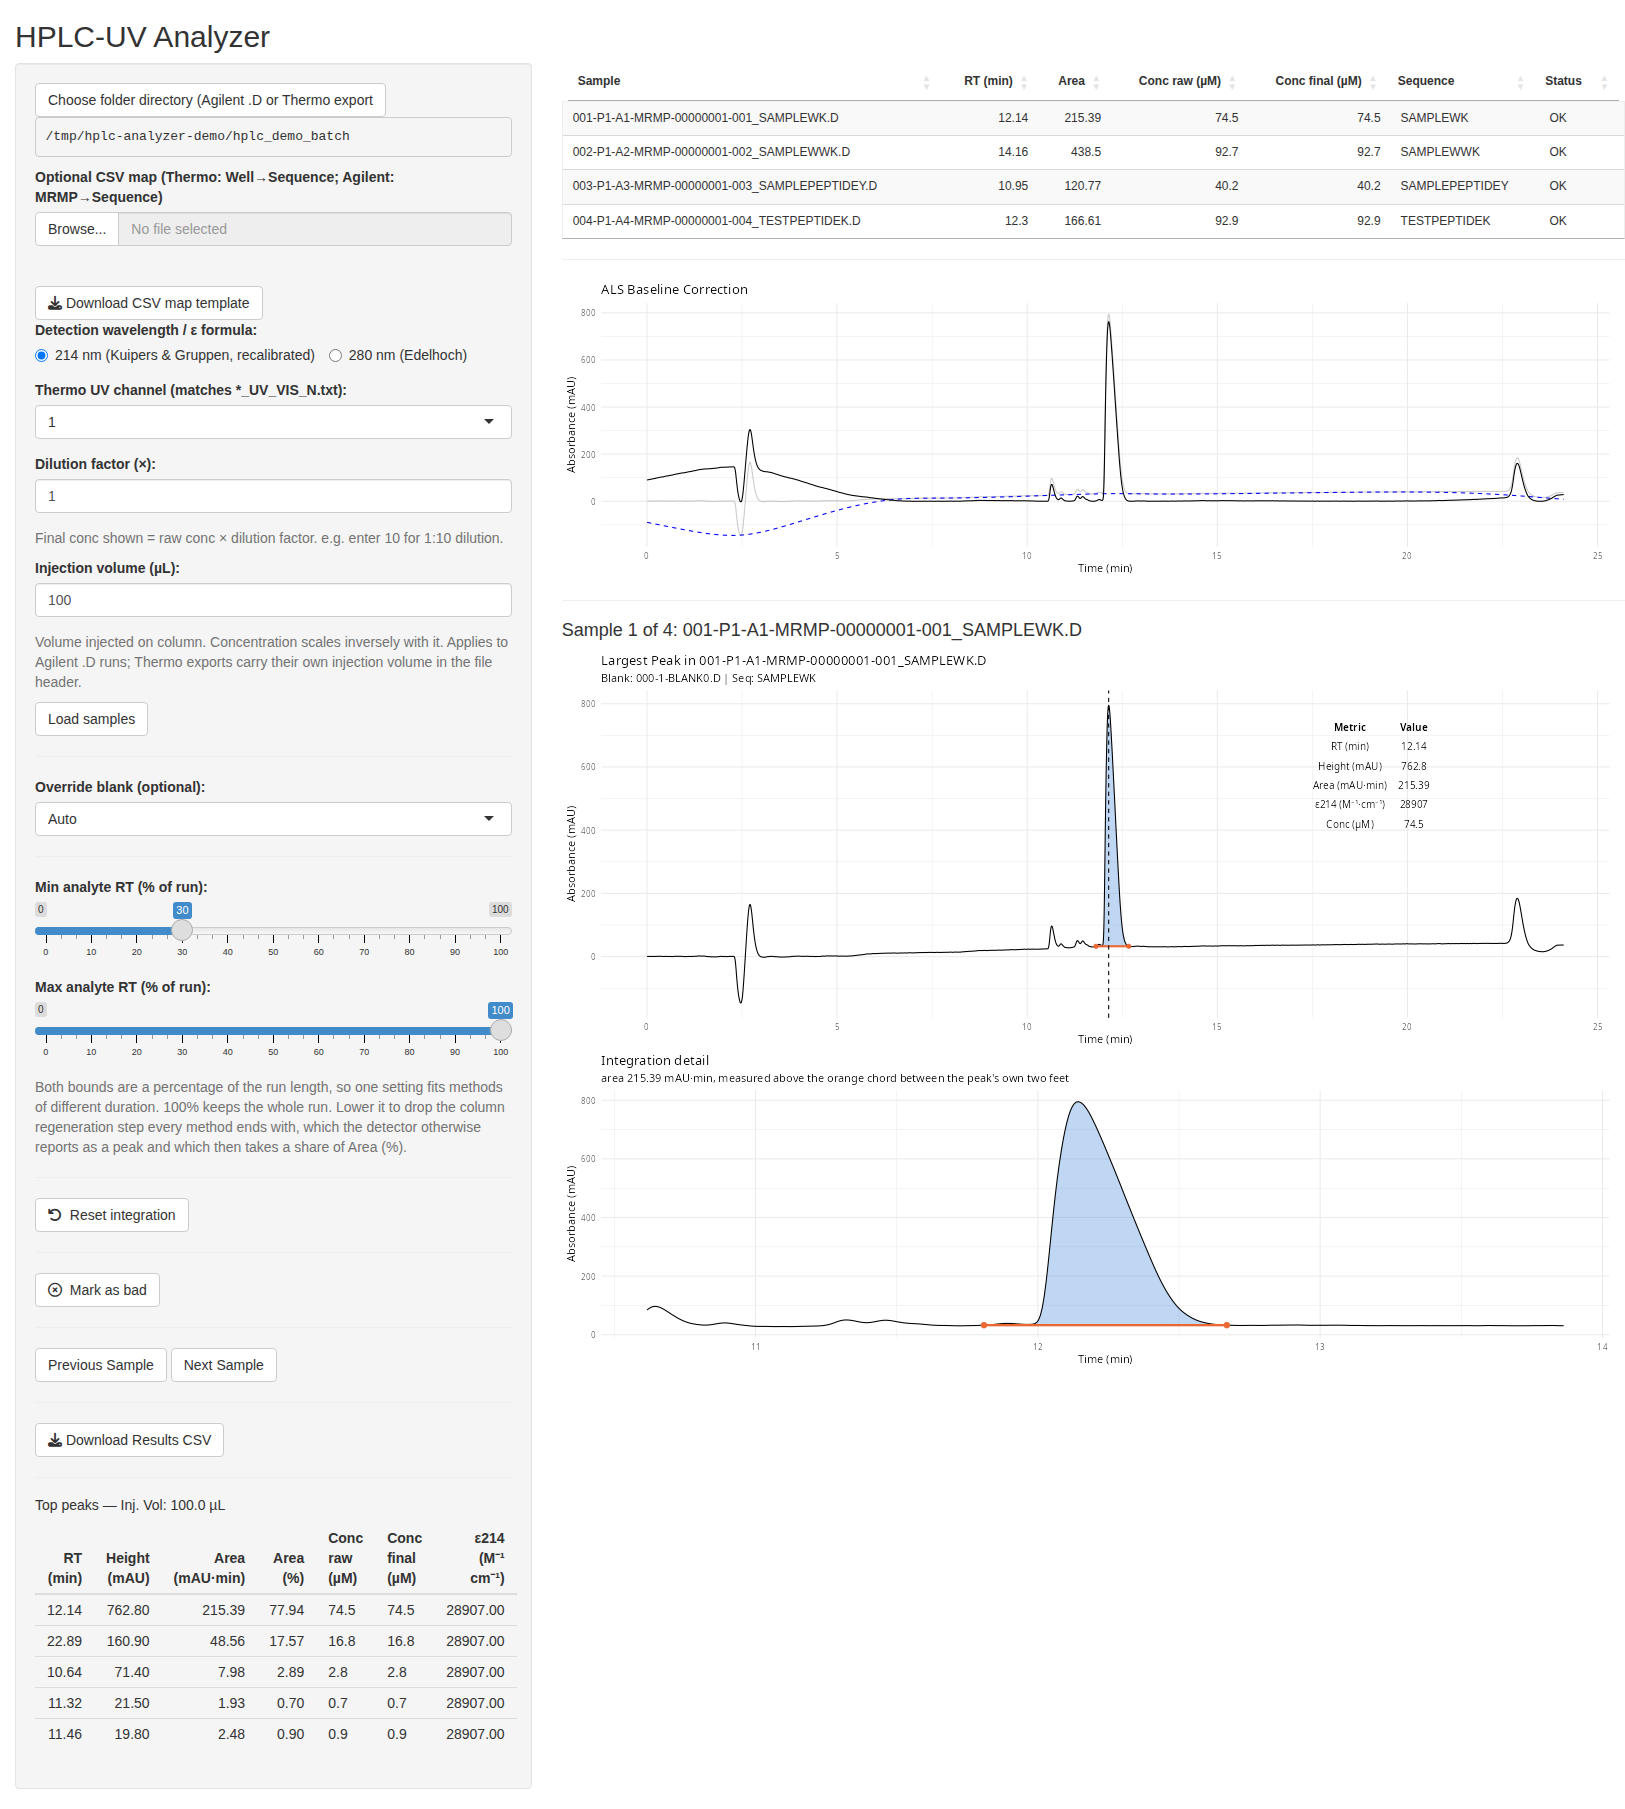
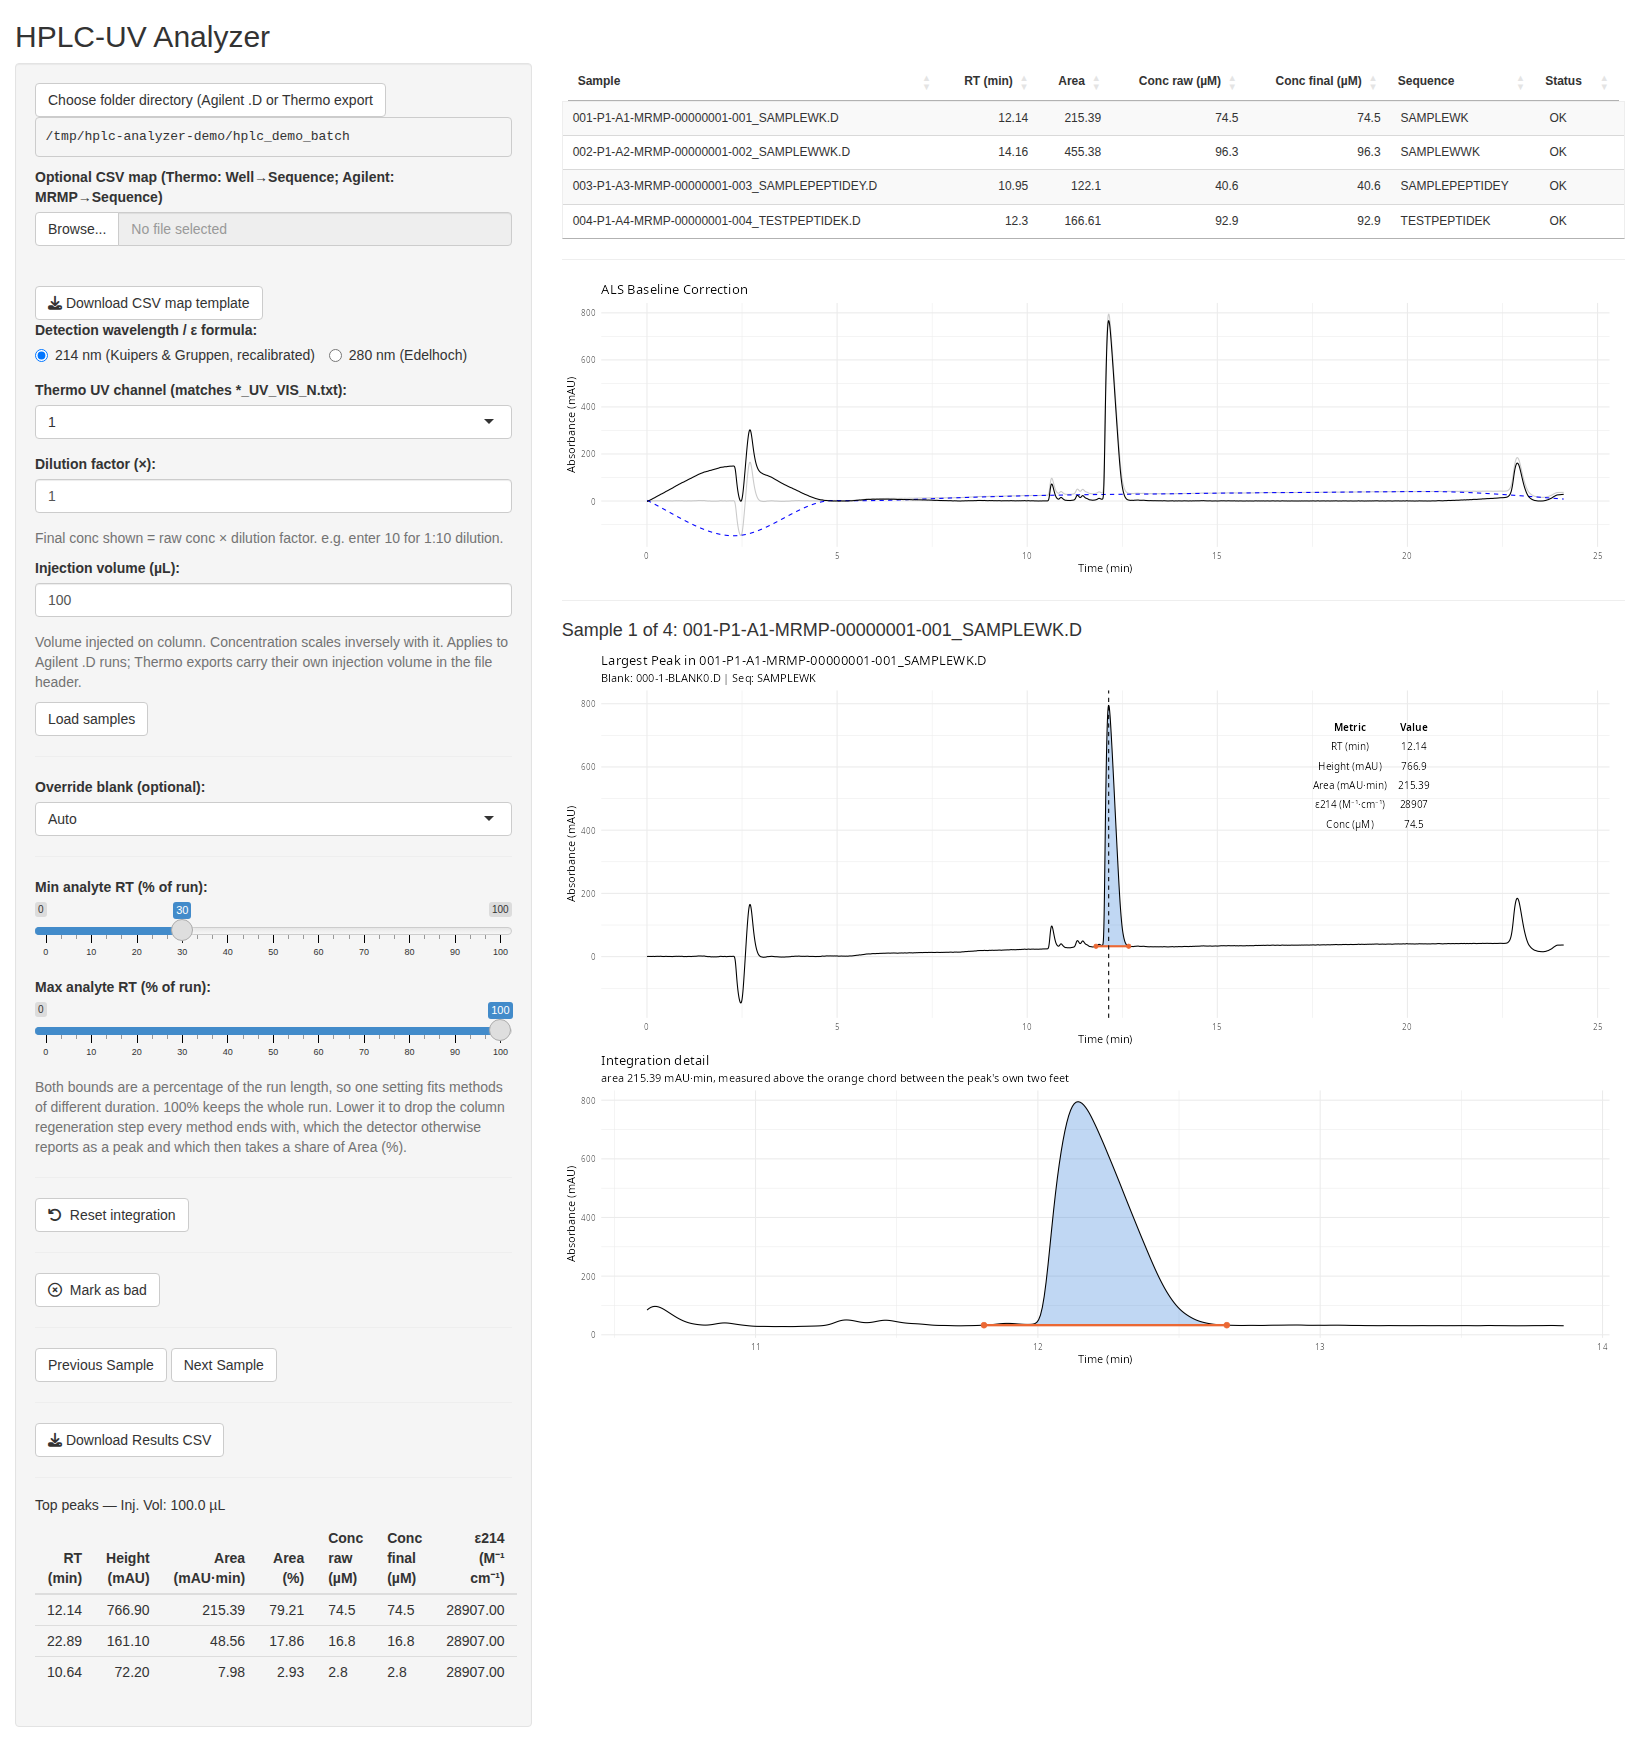
v0.7.6: ALS lambda 4.5 and p 10^-6.5, chosen at the instrument
Peter drove the two sliders against three test runs rather than accepting a value fitted to a
summary statistic, and the pair he landed on is better than the previous 5.5 with p 1e-4 on every
measure at no cost. Over 47 runs: the baseline's climb into the main peak falls from 2.51 mAU to
0.34, the worst it gets above the raw trace near the peak from 0.31 to 0.02, and the offset it
leaves in the first minute from 119 to 78. Reported areas are unchanged, because they come from
each peak's own chord.

The reason my earlier sweeps missed it is that they moved lambda with p held at 1e-4. p is the
parameter that decides how hard the fit is pushed under the data, so it is the one that keeps a
baseline off a peak, and stiffness cannot substitute for it. Both are documented on the function
now, with the tuner named as where the values came from.

Screenshots retaken from the app on these settings.

Claude-Session: https://claude.ai/code/session_0156K7zCU9m841yuwatEAM5z

diff --git a/README.md b/README.md
@@ -9,7 +9,7 @@ the peaks, and converts the main peak area to molarity using a molar absorptivit
 from the peptide sequence. Everything runs locally, either from the R console or from a Shiny
 app aimed at bench chemists rather than R programmers.
 
-Version 0.7.5. See [NEWS.md](NEWS.md) for the version history.
+Version 0.7.6. See [NEWS.md](NEWS.md) for the version history.
 
 ![The app with a batch loaded](man/figures/app-03-sample-detail.png)
 
@@ -183,13 +183,13 @@ cd hplc_analyzer
 R CMD build .
 ```
 
-That writes `hplcAnalyzer_0.7.5.tar.gz`. Send that file. The recipient installs the CRAN
+That writes `hplcAnalyzer_0.7.6.tar.gz`. Send that file. The recipient installs the CRAN
 dependencies once and then the tarball:
 
 ```r
 install.packages(c("chromConverter","dplyr","baseline","signal","pracma","ggplot2",
                    "gridExtra","shiny","shinyFiles","fs","DT","tibble","xml2","magrittr"))
-install.packages("C:/path/to/hplcAnalyzer_0.7.5.tar.gz", repos = NULL, type = "source")
+install.packages("C:/path/to/hplcAnalyzer_0.7.6.tar.gz", repos = NULL, type = "source")
 ```
 
 On Windows, close and reopen R before installing over an existing version. A loaded package
@@ -561,21 +561,21 @@ correction still runs, for the overlay plot and for peak detection where a thres
 trace, but it no longer decides an area: the two baseline paths give areas within a median of
 0.1 percent of each other.
 
-### The global baseline is stiffer than it was
+### The global baseline settings
 
-At the old `sample_als_lambda = 4.0` the fitted baseline arced up into the main peak instead of
-passing under it: on a production run it rose from about 23 mAU either side of the peak to 40
-beneath it, and measured over 24 runs it climbed a median of **6.2 mAU** above the straight line
-joining its own values at the peak's feet. At 5.5 that climb is **0.9 mAU**.
+`sample_als_lambda = 4.5` and `sample_als_p = 10^-6.5`, chosen at the instrument by driving the
+two sliders in the tuner against three test runs rather than by fitting a summary statistic.
+Lambda is stiffness and p is how hard the fit is pushed under the data; the second is what keeps
+a baseline off a peak, and tuning lambda alone cannot substitute for it.
 
-One global λ cannot both follow the injector disturbance and stay stiff under a peak, and the
-trade is monotone: from λ 4 to 6.5 the climb falls 6.2 to 0.5 mAU while the corrected trace's
-offset in the first minute rises 13 to 138. 5.5 is the knee, and past it the climb barely improves
-while the injector cost keeps rising.
+Measured over 47 runs, against a lambda-only choice of 5.5 with p at 1e-4: the baseline's climb
+into the main peak falls from **2.51 mAU to 0.34**, the worst it gets above the raw trace near the
+peak from **0.31 mAU to 0.02**, and the offset it leaves in the first minute from **119 mAU to
+78**. Reported areas are unchanged, because they are taken against each peak's own chord.
 
-Neither end of that trade changes a reported number. Areas are taken against each peak's own
-chord, and the injector region sits before the analyte window `min_rt_frac` opens. What λ decides
-is what the overlay plot looks like and what peak detection thresholds against.
+Note that the app's overlay draws the corrected trace next to the baseline, and the baseline sits
+above **that** by however much it is subtracting. The comparison that shows whether a baseline is
+cutting into a peak is against the **raw** trace, which is what the tuner plots on its own.
 
 ### The blank-subtracting path is no longer used by default
 
@@ -842,7 +842,7 @@ GPL-3. Copyright Peter Kubiniok.
 If you use hplcAnalyzer, cite the software together with references 1 and 2 above:
 
 > Kubiniok, P. (2026). hplcAnalyzer: automated HPLC-UV analysis and peptide concentration
-> estimation. R package version 0.7.5.
+> estimation. R package version 0.7.6.
 
 If you report a 214 nm concentration from it, say which coefficients you used. The shipped
 `estimate_epsilon_214()` is **not** the published Kuipers and Gruppen value for tryptophan;

diff --git a/NEWS.md b/NEWS.md
@@ -1,15 +1,12 @@
-# hplcAnalyzer 0.7.5
+# hplcAnalyzer 0.7.6
 
-* **The global ALS baseline is stiffer: `sample_als_lambda` 4.0 to 5.5.** At 4.0 it arced up into
-  the main peak instead of passing under it, rising from about 23 mAU either side of a peak to 40
-  beneath it. Measured over 24 runs it climbed a median of 6.2 mAU above the straight line joining
-  its own values at the peak's feet; at 5.5 that is 0.9 mAU.
+* **`sample_als_lambda` 4.5 and `sample_als_p` 10^-6.5**, chosen at the instrument on three test
+  runs rather than by fitting a summary statistic. Better than the previous 5.5 and 1e-4 on every
+  measure, at no cost. Over 47 runs: the baseline's climb into the main peak falls from 2.51 mAU
+  to **0.34**, the worst it gets above the raw trace near the peak from 0.31 to **0.02**, and the
+  offset it leaves in the first minute from 119 to **78**. Reported areas are unchanged, because
+  they come from each peak's own chord.
 
-  One global λ cannot both follow the injector disturbance and stay stiff under a peak. The trade
-  is monotone: from λ 4 to 6.5 the climb falls 6.2 to 0.5 mAU while the corrected trace's offset
-  in the first minute rises 13 to 138. 5.5 is the knee.
-
-  This moves reported areas by 0.3 percent, because areas come from each peak's own chord rather
-  than from this baseline. What it changes is what the overlay plot shows, which is the first
-  thing anyone looks at, and it should not look like the baseline is eating the peak.
+  p is the parameter that keeps a baseline off a peak, and no amount of lambda substitutes for it;
+  the lambda-only sweeps done earlier could not find this setting because they held p fixed.
 

diff --git a/INSTALL.md b/INSTALL.md
@@ -37,11 +37,11 @@ install.packages(c("chromConverter","dplyr","baseline","signal","pracma","ggplot
 Then install the package itself, using the full path to the file you were sent:
 
 ```r
-install.packages("C:/Users/you/Downloads/hplcAnalyzer_0.7.5.tar.gz",
+install.packages("C:/Users/you/Downloads/hplcAnalyzer_0.7.6.tar.gz",
                  repos = NULL, type = "source")
 ```
 
-On macOS the path looks like `/Users/you/Downloads/hplcAnalyzer_0.7.5.tar.gz`. Use forward
+On macOS the path looks like `/Users/you/Downloads/hplcAnalyzer_0.7.6.tar.gz`. Use forward
 slashes on every platform, including Windows.
 
 ### B. You have a git checkout
